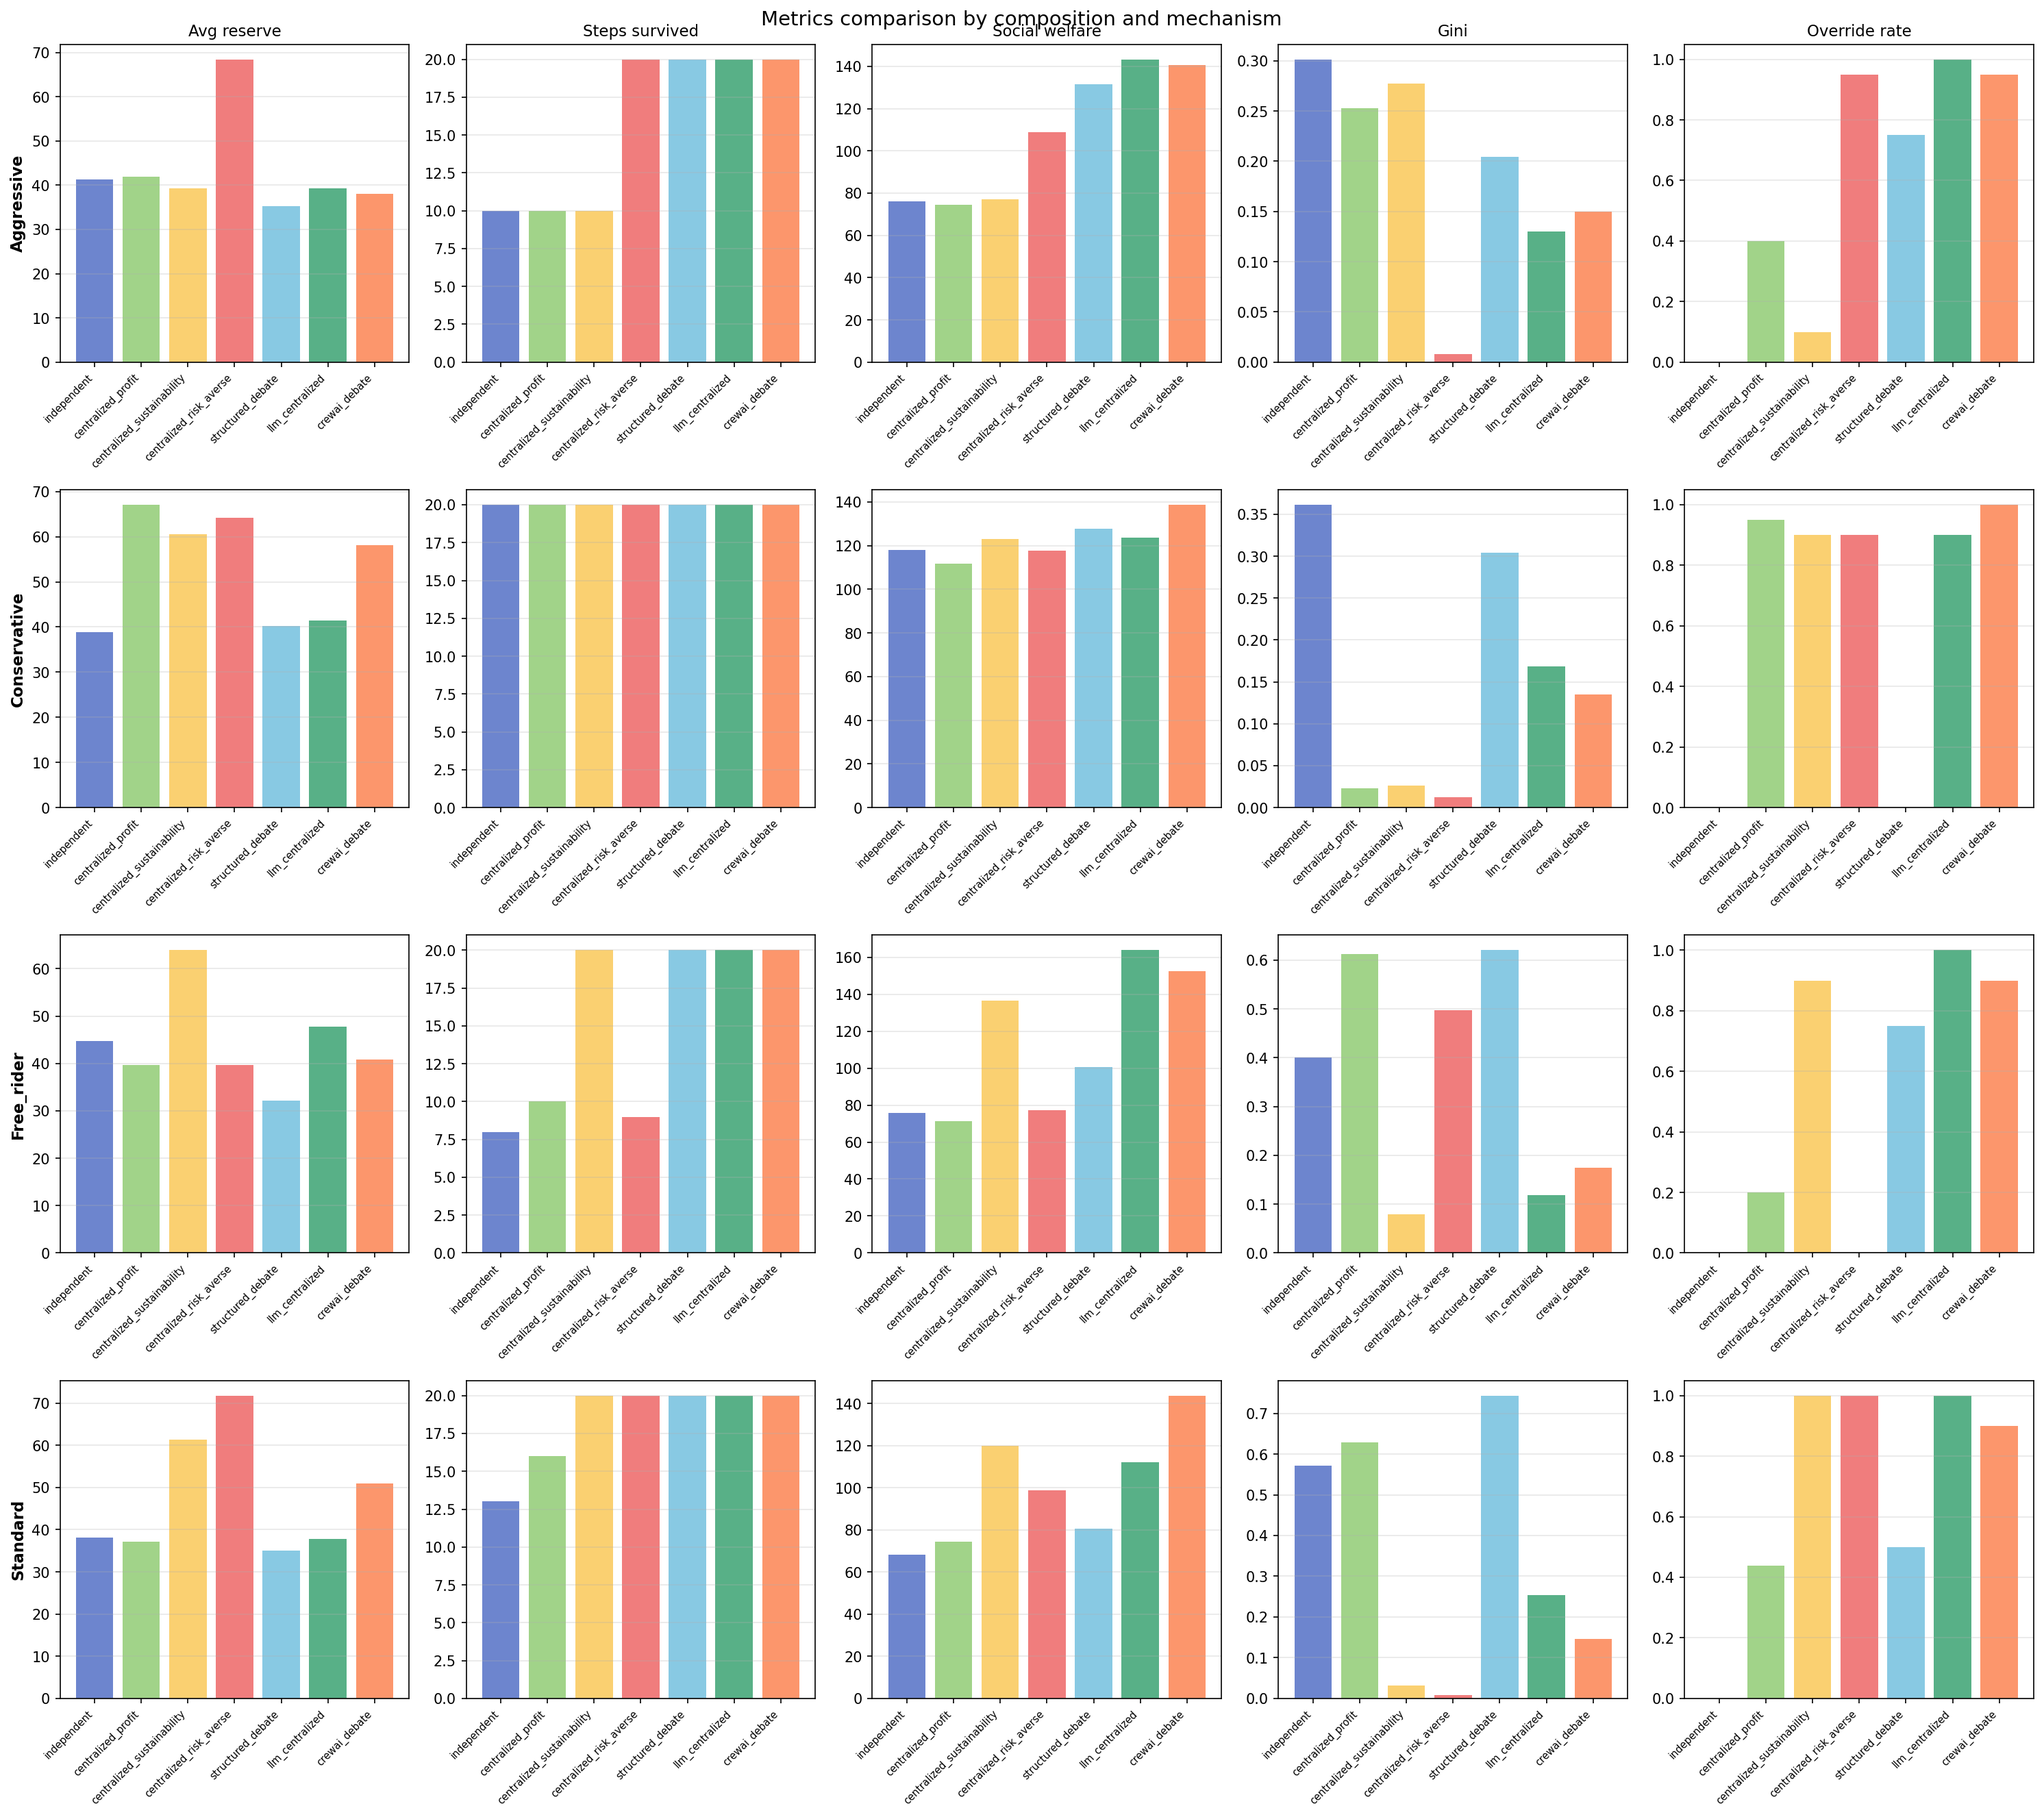
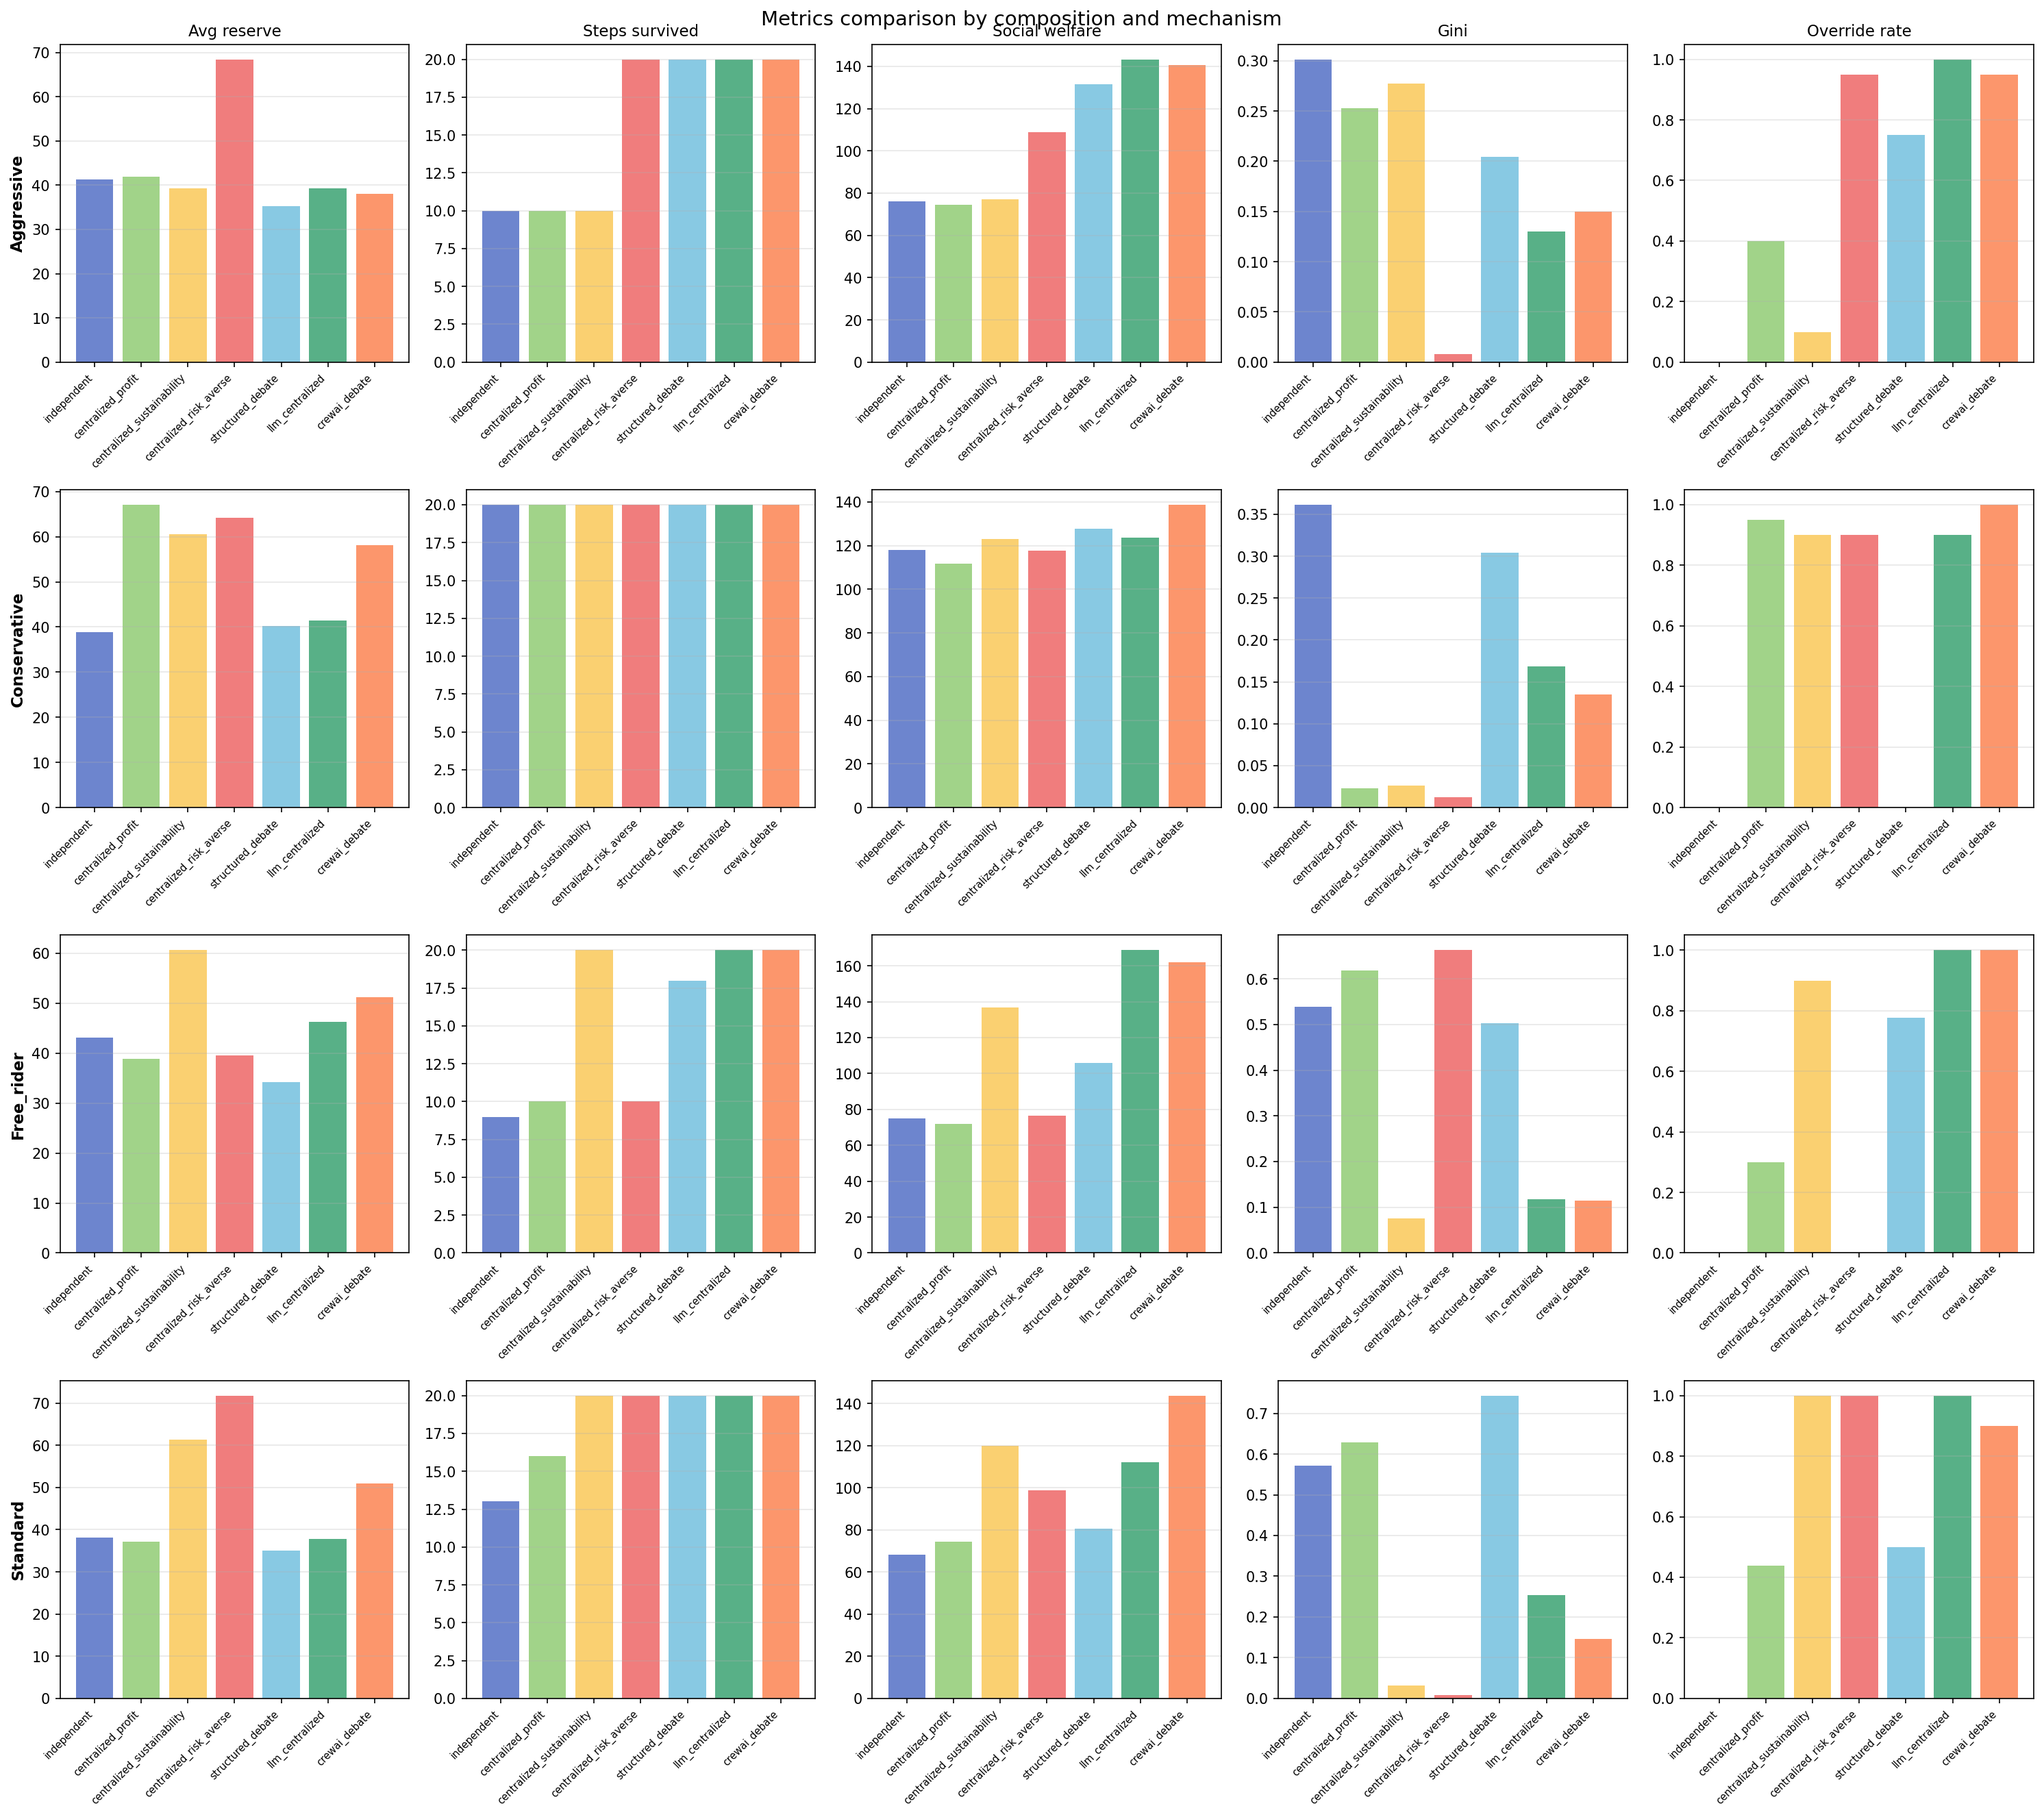
Free-rider addendum: regenerate LLM history figures from a fresh session
Re-ran free_rider × 7 mechanisms × 1 seed across all 3 LLM models
(`deepseek-v4-flash`, `gemma-4-31b-it`, `gpt-5.4-nano`) to recover the
per-step histories that the original `main_llm.py` session held only in
RAM and never persisted to disk.

The previous free_rider rows in each per-model `detailed_runs.csv` were
replaced with these fresh draws so the CSV and the new history figures
come from the same OpenRouter session. CSV row counts are unchanged
(28/model = 7 mechanisms × 4 compositions × 1 seed); the row values
shift slightly because LLMs at `temperature=0.3` are stochastic.

The three history-based figures land alongside the originals as
`*_free_rider.png` companions, intended for side-by-side reading:
- `reserve_confidence_bands_free_rider.png`
- `action_distributions_free_rider.png`
- `reserve_by_composition_free_rider.png`

These are not folded into the original PNGs because the original
session's per-step histories are not on disk anywhere, so the
21-line/bar figures cannot be re-rendered as 28-line/bar figures.

`aggregated_comparison.csv` per model and `multi_model_aggregated.csv`
were rebuilt from the merged detail frame. CSV-derived figures
(`metrics_comparison`, `metrics_by_composition`, `pareto_cost_vs_welfare`,
`per_role_rewards`, `model_comparison`) were regenerated to reflect the
new free_rider rows.

`results/README.md` updated to describe the `*_free_rider.png` pairing
and why no unified rendering is possible without re-running
`main_llm.py` end-to-end.

diff --git a/results/README.md b/results/README.md
@@ -92,6 +92,13 @@ Currently on disk: three model subdirs — `deepseek_deepseek-v4-flash/`, `googl
 ### Per-model `figures/`
 Same set as `results/figures/` *except* `scale_robustness.png` (no scale sweep) and `sensitivity_heatmap.png` (rule-based only). Same semantics, but the Pareto plot's x-axis is `llm_calls_mean` instead of `total_messages_mean`.
 
+Three of the figures come paired with a `*_free_rider.png` companion:
+- `reserve_confidence_bands.png` ⟷ `reserve_confidence_bands_free_rider.png`
+- `action_distributions.png` ⟷ `action_distributions_free_rider.png`
+- `reserve_by_composition.png` ⟷ `reserve_by_composition_free_rider.png`
+
+These three are history-based plots (per-step trajectory / action mix per `composition × mechanism` key). The original PNGs reflect the first `main_llm.py` session's three compositions; the `_free_rider`-suffixed PNGs reflect the addendum session's free_rider composition only. They are intended to be viewed **side-by-side**: no honest path exists to fold the free_rider data into a single unified figure without the original session's per-step histories, and those are never persisted to disk. `main_free_rider_addendum.py` is the script that produces the `_free_rider` companions; re-running it (~3 h API time) regenerates them from a fresh draw. The CSV-derived figures in this directory always reflect all four compositions.
+
 ### `results/llm/raw/multi_model_aggregated.csv`
 Concatenation of every per-model `aggregated_comparison.csv` with an added `model` column. Multi-model mode only.
 
